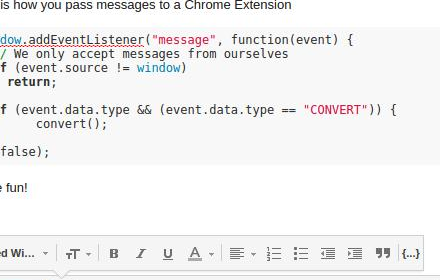
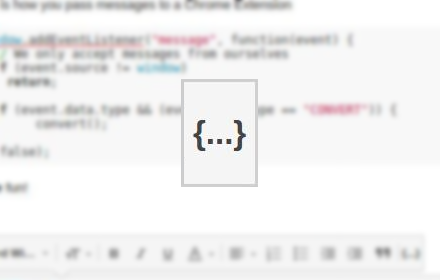
append button isntead of stepping on remove format

diff --git a/main.js b/main.js
@@ -84,15 +84,17 @@ elem.find('.hljs-chunk')
 	
 }
 
-
+var addButtonInterval;
 function addButton() {
-	if (!$('codebtn').length > 0) {
+	if (!$('#codebtn').length > 0) {
 		var onclick = 'window.postMessage({ type: \'CONVERT\'}, \'*\')';
-		$( "div[command='+removeFormat']" ).replaceWith('<div id="codebtn" onclick="' + onclick + '" class="J-Z-I J-J5-Ji">{...}</div>');
-	}
+		$( "div[command='+removeFormat']" ).after('<div id="codebtn" onclick="' + onclick + '" class="J-Z-I J-J5-Ji">{...}</div>');
+	} else {
+    clearInterval(addButtonInterval);
+  }
 }
 
-setInterval(addButton, 1000);
+addButtonInterval = setInterval(addButton, 1000);
 
 window.addEventListener("message", function(event) {
   // We only accept messages from ourselves
